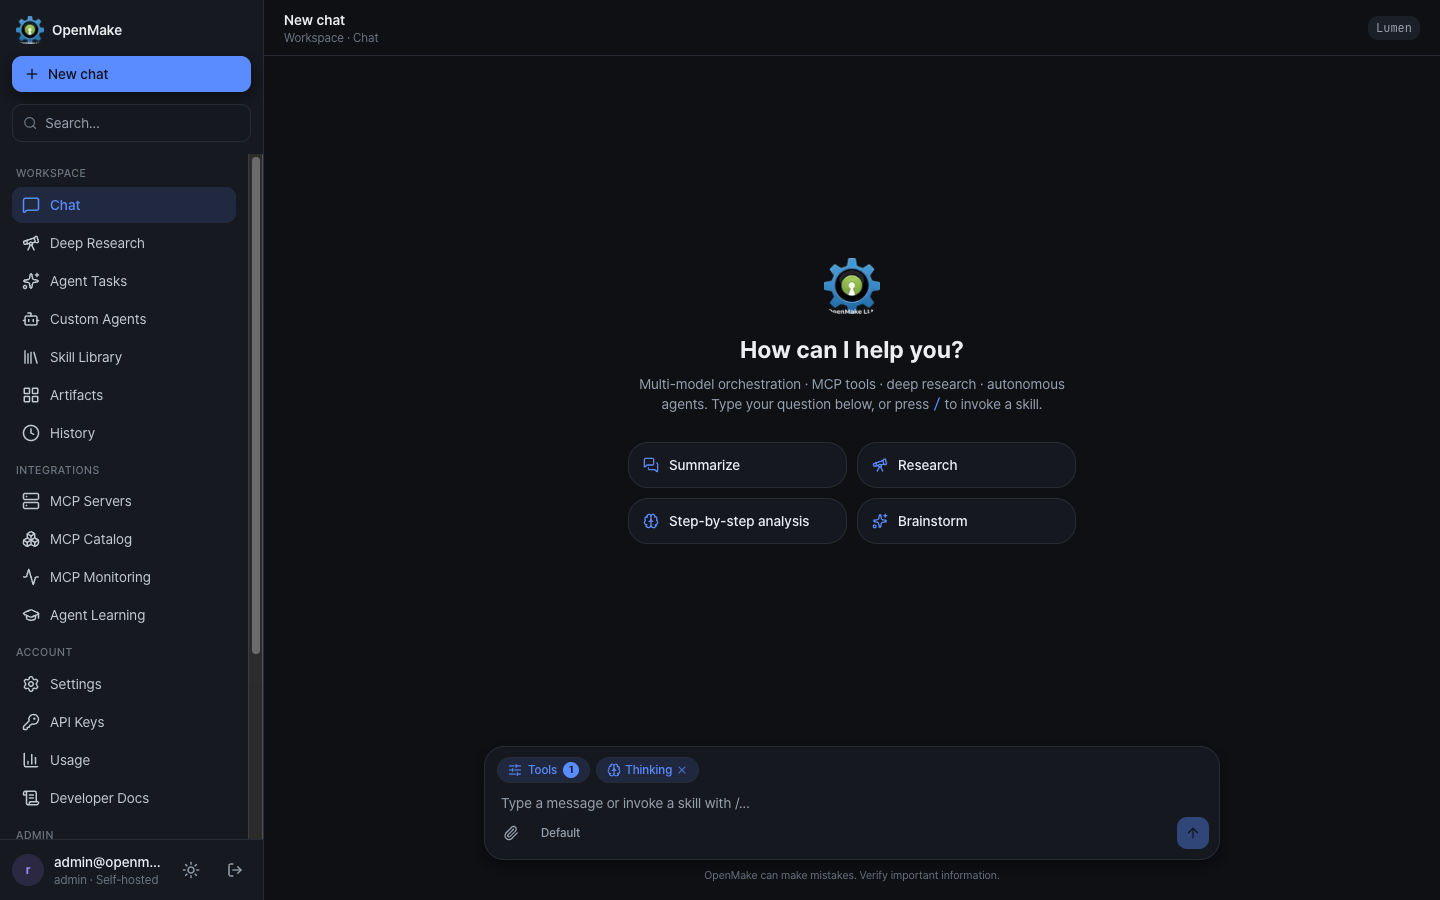
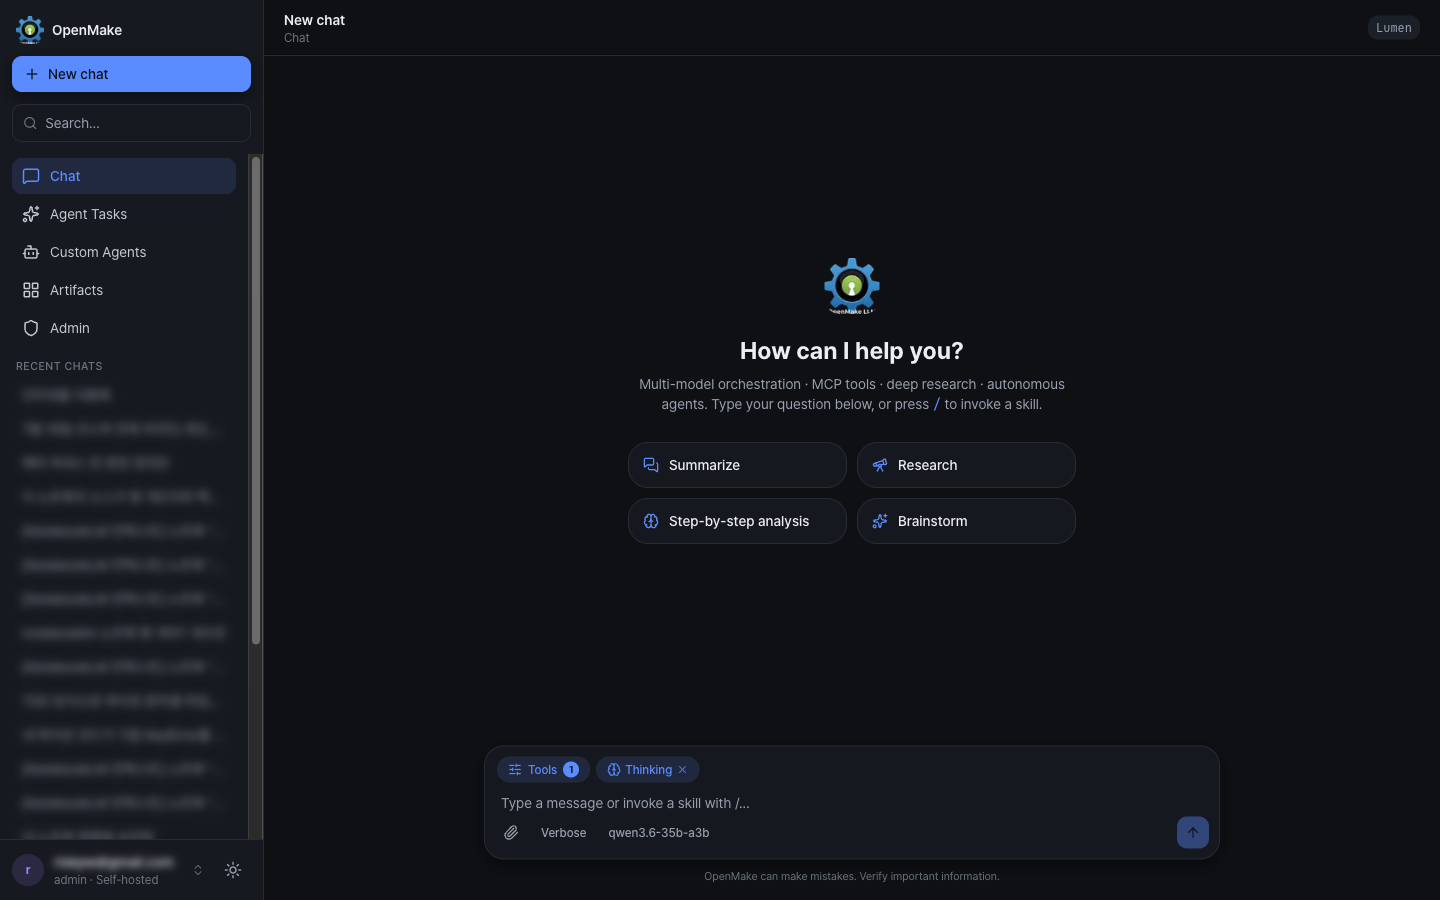
docs(readme): 신규 기능 반영 + 스크린샷 전면 갱신
- NotebookLM 컨텍스트 그라운딩(컴포저 피커·카탈로그 tool allowlist) 추가
- 단일 실행 경로 확정 반영 — 아키텍처 다이어그램의 폐기된 strategy dispatch 교체
- tail 라우팅(셰도우/Stage 2B, 기본 OFF), 에이전트 작업 템플릿·반복 스케줄 기술
- OpenAI 호환 API artifacts 확장 + publish_artifacts, Discord 첨부 전달 기술
- 스크린샷 7종 재촬영(5항목 내비·모드 메뉴·노트북 피커·에이전트 작업·Connectors·모델 역할·스킬 라이브러리)
  — 대화 제목·노트북명·계정 이메일은 블러 처리

diff --git a/README.md b/README.md
@@ -32,6 +32,7 @@ Every request flows through a lightweight, deterministic policy layer — **`Exe
 | 🎛 **Role-based model orchestration** | Assign a different model (local or BYOK external) per functional role; per-user + admin-global mappings, server-shared keys with token budgets |
 | 🤖 **Autonomous agents** | Manus-style multi-turn agent in a persistent Docker sandbox (shell · Python · browser · files), with human-in-the-loop approval |
 | 🔬 **Deep research** | Fan-out web search → source fetch → claim verification → cited synthesis |
+| 📓 **NotebookLM grounding** | Pin one of your Google NotebookLM notebooks as conversation context, straight from the composer |
 | 🧩 **22 built-in MCP tools** + external MCP servers | Each external server isolated in Docker (`--cap-drop ALL`, non-root, network policy) |
 | 👤 **Custom agents & skills** | Project-scoped personas (with optional per-agent model) + an auto-selectable skill library + 18 industry agents (100 specialists) |
 | 💬 **Discord gateway bot** | Optional workspace relaying Discord messages to the OpenAI-compatible API, with role/mention access control |
@@ -42,10 +43,32 @@ Every request flows through a lightweight, deterministic policy layer — **`Exe
 
 ## Screenshots
 
-**Chat workspace** — multi-model orchestration, mode toggles (Discussion / Thinking / Deep Research / Web / Agent), and slash-invoked skills:
+> Conversation titles, notebook names, and the account email are blurred — everything else is the running app.
+
+**Chat workspace** — a five-item workspace nav, model selector, response style, and slash-invoked skills:
 
 <p align="center">
   <img src="assets/screenshot-chat.png" alt="Chat workspace" width="920" />
+</p>
+
+| Mode menu — Discussion / Thinking / Deep Research / Web / Agent / Image / Artifact / Structured | NotebookLM picker — pin a notebook as conversation context |
+|---|---|
+| ![Composer mode menu](assets/screenshot-composer-modes.png) | ![NotebookLM notebook picker](assets/screenshot-notebook-picker.png) |
+
+**Agent tasks** — autonomous multi-turn runs with live progress, token accounting, recurring schedules, and reusable task templates:
+
+<p align="center">
+  <img src="assets/screenshot-agent-tasks.png" alt="Agent task management" width="920" />
+</p>
+
+| Connectors — external MCP servers, each Docker-isolated | Model Roles Admin — global role→model mappings |
+|---|---|
+| ![Settings → Connectors](assets/screenshot-settings.png) | ![Model roles admin](assets/screenshot-model-roles.png) |
+
+**Skill Library** — reusable manifests with tool bindings, importable from Git or generated by the model:
+
+<p align="center">
+  <img src="assets/screenshot-skill-library.png" alt="Skill Library" width="920" />
 </p>
 
 **Multilingual UI (한국어 · English · 日本語 · 简体中文)** — switch the interface language in Settings, or let it follow your browser (`Accept-Language`). AI response language independently follows the message language:
@@ -53,10 +76,6 @@ Every request flows through a lightweight, deterministic policy layer — **`Exe
 <p align="center">
   <img src="assets/i18n-demo.gif" alt="Interface language switching demo (ko / en / ja / zh)" width="920" />
 </p>
-
-| Settings — language & privacy | Skill Library — auto-selectable skills |
-|---|---|
-| ![Settings page](assets/screenshot-settings.png) | ![Skill Library page](assets/screenshot-skill-library.png) |
 
 ---
 
@@ -74,8 +93,9 @@ OpenMake separates **policy** (deciding *how* to answer) from **execution** (act
                      └────────┬─────────┘   │  · assemble system prompt & tools
                               │              (no extra LLM round-trip)
                      ┌────────▼─────────┐
-                     │  strategy dispatch │  local → streamFromExternalProvider (default)
-                     └────────┬─────────┘   external → provider-specific tool loop
+                     │streamFromExternal- │  single path — local & external alike
+                     │      Provider      │  · always-on MCP tool loop (5 turns)
+                     └────────┬─────────┘   · Discussion / Deep Research intercept earlier
                      ┌────────▼─────────┐
                      │   LLMClient.chat   │  execution — per call
                      │  (context-fit net) │  · token estimate → truncate → cap
@@ -84,6 +104,7 @@ OpenMake separates **policy** (deciding *how* to answer) from **execution** (act
               vLLM serve → LiteLLM proxy (OpenAI-compatible)
 ```
 
+- **One execution path** — the former per-strategy layer (generate-verify, agent-loop, thinking, direct) was retired: local and external models now share a single `streamFromExternalProvider` dispatch with an always-on MCP tool loop. Discussion and Deep Research remain separate modes intercepted before dispatch.
 - **Context-fit safety net** — on entry, prompt tokens (images included) are estimated; if the effective **262K** window is exceeded, input is truncated → `max_tokens` reduced → in the extreme, a `ContextOverflowError` returns **HTTP 413** with an audit record and an automatic webhook alert.
 - **User customization (4 orthogonal axes)** — **Model** (selector) · **Style** (Concise / Default / Verbose) · **Mode** (Discussion / Thinking / Deep Research / Web / Agent Task) · **Custom Instructions & Agents**. System-prompt assembly order: `memory + custom-instructions + style`.
 - **Role-based model orchestration** — every LLM-calling subsystem resolves its model through a single role registry with a fail-open fallback chain: per-user mapping → admin-set global (DB) → global env → local default. External models per role run on the user's BYOK key, or on a server-shared operator key (with daily/monthly token budgets) for global roles. Custom agents can also pin their own model.
@@ -98,22 +119,25 @@ OpenMake separates **policy** (deciding *how* to answer) from **execution** (act
 - Single local model routed per request by the `ExecutionPlanBuilder` policy layer; behavior controlled by orthogonal axes (Model · Style · Mode · Custom Agent).
 - Self-hosted vLLM + LiteLLM (default `qwen3.6-35b-a3b`) with a context-fit safety net that protects output tokens and degrades gracefully on overflow.
 - Bring-your-own external keys — **OpenRouter, NVIDIA NIM, Ollama** (local + cloud), all OpenAI-compatible (an Anthropic adapter is built into the provider abstraction) — AES-256-GCM encrypted at rest. **Guests use the default local model only** — external providers require sign-in.
-- **Role-based model orchestration** — assign a different model (local or BYOK external) to each functional role (`agent`, `judge`, `research`, `spawn`, `review`, `summary`) via Settings; admins set org-wide defaults and register server-shared external keys with per-key token budgets in an admin console. Resolution is fail-open (falls back to the local default on any failure).
+- **Role-based model orchestration** — assign a different model (local or BYOK external) to each functional role (`agent`, `judge`, `research`, `spawn`, `review`, `summary`) via Settings; admins set org-wide defaults and register server-shared external keys with per-key token budgets in an admin console. Resolution is fail-open (falls back to the local default on any failure). Model lists filter down to what is actually reachable and role-capable.
+- **Tail routing (opt-in, off by default)** — a lightweight gate scores each query's error likelihood; when it judges a query as *factual tail* (likely to be answered wrong, externally verifiable), `web_search` is deterministically forced on the first turn. Ships with a shadow mode (`TAIL_ROUTING_SHADOW_ENABLED`) that records gate decisions without changing behavior, so thresholds can be tuned on real traffic before `TAIL_ROUTING_STAGE2B_ENABLED` is switched on.
 
 **▸ Agents & research**
-- **Autonomous agent tasks** — a Manus-style agent pursues a goal across multiple tool-calling turns inside a **persistent Docker sandbox** (shell, Python, browser, file, planning tools) with human-in-the-loop approval. It records file attachments, injects images through a vision channel, produces deliverables including **Excel (.xlsx)** and **PDF** (with Korean/CJK fonts), and honestly reports non-achievement (`[GOAL_INCOMPLETE]` marker + goal judge) instead of falsely marking "done".
+- **Autonomous agent tasks** — a Manus-style agent pursues a goal across multiple tool-calling turns inside a **persistent Docker sandbox** (shell, Python, browser, file, planning tools) with human-in-the-loop approval. It records file attachments, injects images through a vision channel, produces deliverables including **Excel (.xlsx)** and **PDF** (with Korean/CJK fonts), and honestly reports non-achievement (`[GOAL_INCOMPLETE]` marker + goal judge) instead of falsely marking "done". Tasks can be saved as **reusable templates** or put on a **recurring schedule**.
 - **Deep research** — fan-out web search → source fetch → claim verification → cited synthesis.
 - **Custom agents & skills** — project-scoped agents (claude.ai Projects equivalent) selectable directly from the composer, each optionally pinned to its own model, plus an auto-selectable skill library and 18 built-in industry agents (100 specialists).
 
 **▸ Tools & extensibility**
-- **MCP tool system** — 22 built-in tools (web search, fact-check, web scrape/map/crawl, image analysis, agent-task control, skill/agent/MCP git-ingest, …) plus external MCP servers, each isolated in Docker (`--cap-drop ALL`, non-root, `--memory`+`--memory-swap`, network policy, realpath-guarded mounts).
-- **Artifacts** — live sandboxed iframe rendering, optional Docker code execution (Python / JS), a resizable side panel, and a separate-origin strict-CSP shared viewer for publishing.
+- **MCP tool system** — 22 built-in tools (web search, fact-check, web scrape/map/crawl, image analysis, agent-task control, skill/agent/MCP git-ingest, …) plus external MCP servers, each isolated in Docker (`--cap-drop ALL`, non-root, `--memory`+`--memory-swap`, network policy, realpath-guarded mounts). Install servers from the MCP catalog in **Settings → Connectors**; a catalog-level **tool allowlist** keeps chat auto-exposure focused (a 39-tool server need not dump 39 schemas into every prompt) while REST execution and the explicit tool picker keep full access.
+- **NotebookLM grounding** — install the NotebookLM connector with your own Google session cookie (AES-256-GCM encrypted, injected only at spawn), then pin a notebook from the composer. The grounding prefix rides an LLM-only channel, so stored messages and sidebar titles stay clean, and the pin is scoped to one conversation.
+- **Artifacts** — live sandboxed iframe rendering, optional Docker code execution (Python / JS), a resizable side panel, and a separate-origin strict-CSP shared viewer for publishing. The OpenAI-compatible API returns artifacts as a `message.artifacts` extension, and `publish_artifacts: true` makes the server mint share links for API-key clients that cannot publish themselves.
 - **Memory & instructions** — persistent cross-conversation memory (with a per-session usage toggle) and always-on custom instructions.
 - **Thinking display** — Claude-web-style reasoning timeline with a live one-line headline (generated by a dedicated summary model), persisted and restored on re-open.
 - **Multilingual UI** — Korean, English, Japanese, and Simplified Chinese via `next-intl` (cookie-based locale, browser auto-detect, locale-aware date/number formatting).
 
 **▸ Integrations**
-- **Discord gateway bot** (`apps/discord-bot`) — an optional standalone workspace that relays Discord messages to `/api/v1/chat/completions`, with per-user session isolation (`/reset`), role/mention access control, and API-key auth. Runs as its own PM2 process.
+- **Discord gateway bot** (`apps/discord-bot`) — an optional standalone workspace that relays Discord messages to `/api/v1/chat/completions`, with per-user session isolation (`/reset`), role/mention access control, and API-key auth. Generated images and artifacts come back as real Discord file attachments (with share links), since Discord cannot render the API's relative paths or placeholders. Runs as its own PM2 process.
+- **NotebookLM** — `GET /api/mcp/notebooklm/notebooks` backs the composer picker (per-user cache, upstream failures converged to `502 NOTEBOOKLM_UPSTREAM` so the UI can prompt a reconnect when the Google cookie expires).
 
 **▸ Security**
 - JWT in HttpOnly cookies, Google OAuth 2.0, RBAC, per-user & per-route rate limiting, SSRF guard, Helmet headers, and a unified Audit ↔ Alert pipeline.
